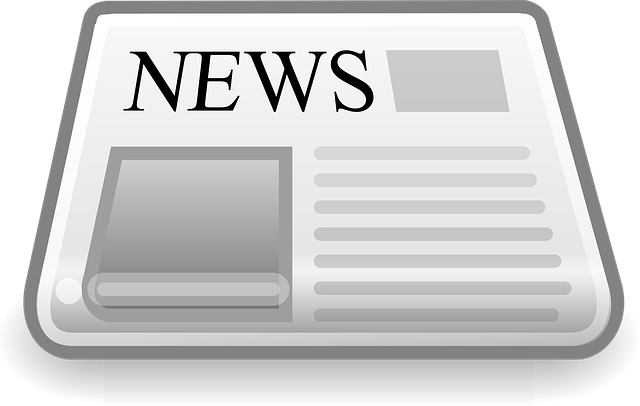
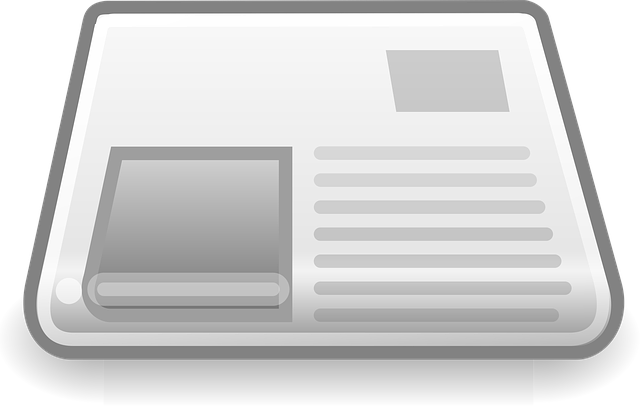
finishing cosmetic changes

Changed region(s): [[0.1875, 0.1182, 0.5938, 0.2956]]

diff --git a/app/views/main.html b/app/views/main.html
@@ -1,6 +1,6 @@
 <div class="jumbotron">
-  <p class="lead"><img id="main-news" class="news-image" src="images/news.png" alt="News image"><br></p>
   <h1>Quick News</h1>
+  <p class="lead"><img id="main-news" class="news-image" src="images/news.png" alt="News image"><br></p>
   <h2>A multi-sourced news app that summarizes all your news.</h2>
 </div>
 

diff --git a/Gruntfile.js b/Gruntfile.js
@@ -77,7 +77,7 @@ module.exports = function (grunt) {
       options: {
         port: 9000,
         // Change this to '0.0.0.0' to access the server from outside.
-        hostname: 'localhost',
+        hostname: '0.0.0.0',
         livereload: 35729
       },
       livereload: {

diff --git a/app/styles/main.scss b/app/styles/main.scss
@@ -197,5 +197,5 @@ hr {
 }
 
 .news-image {
-  width: 100%;
+  width: 50%;
 }
